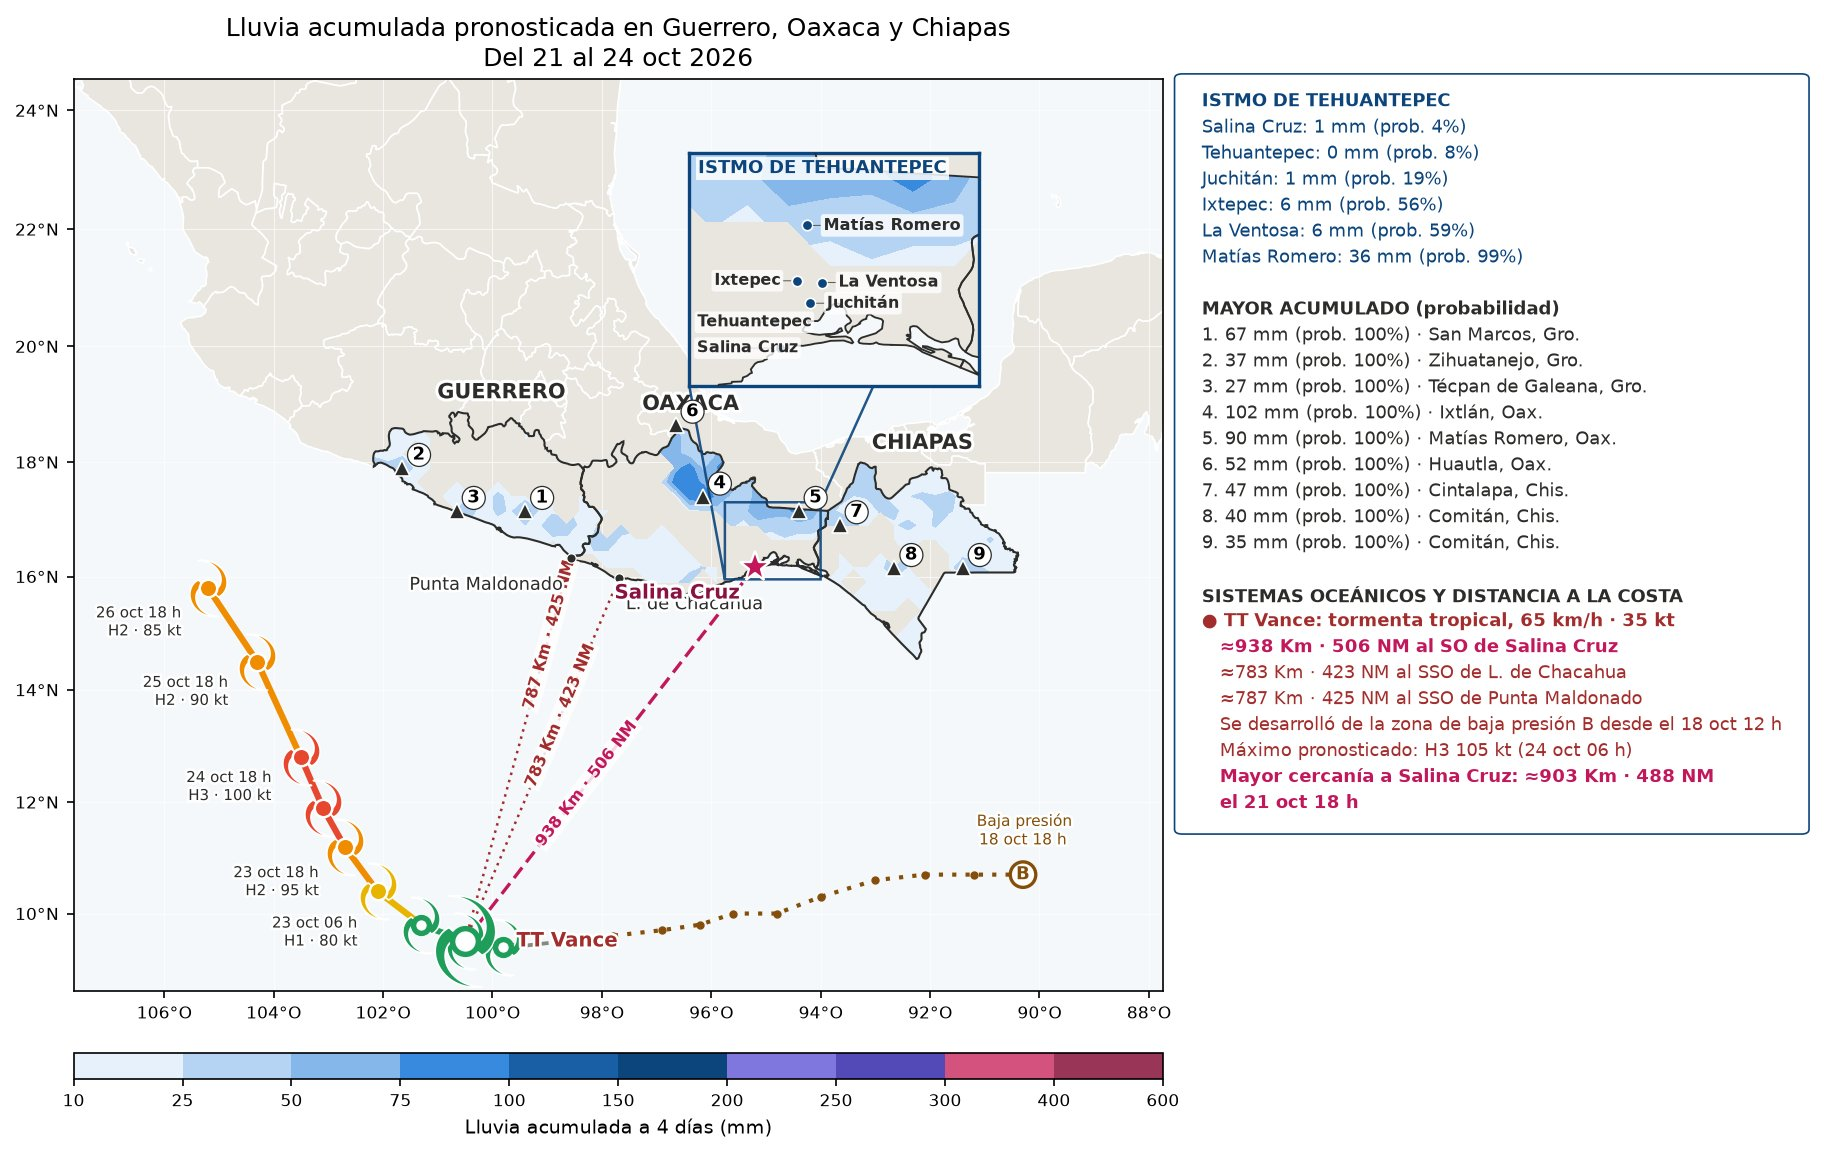
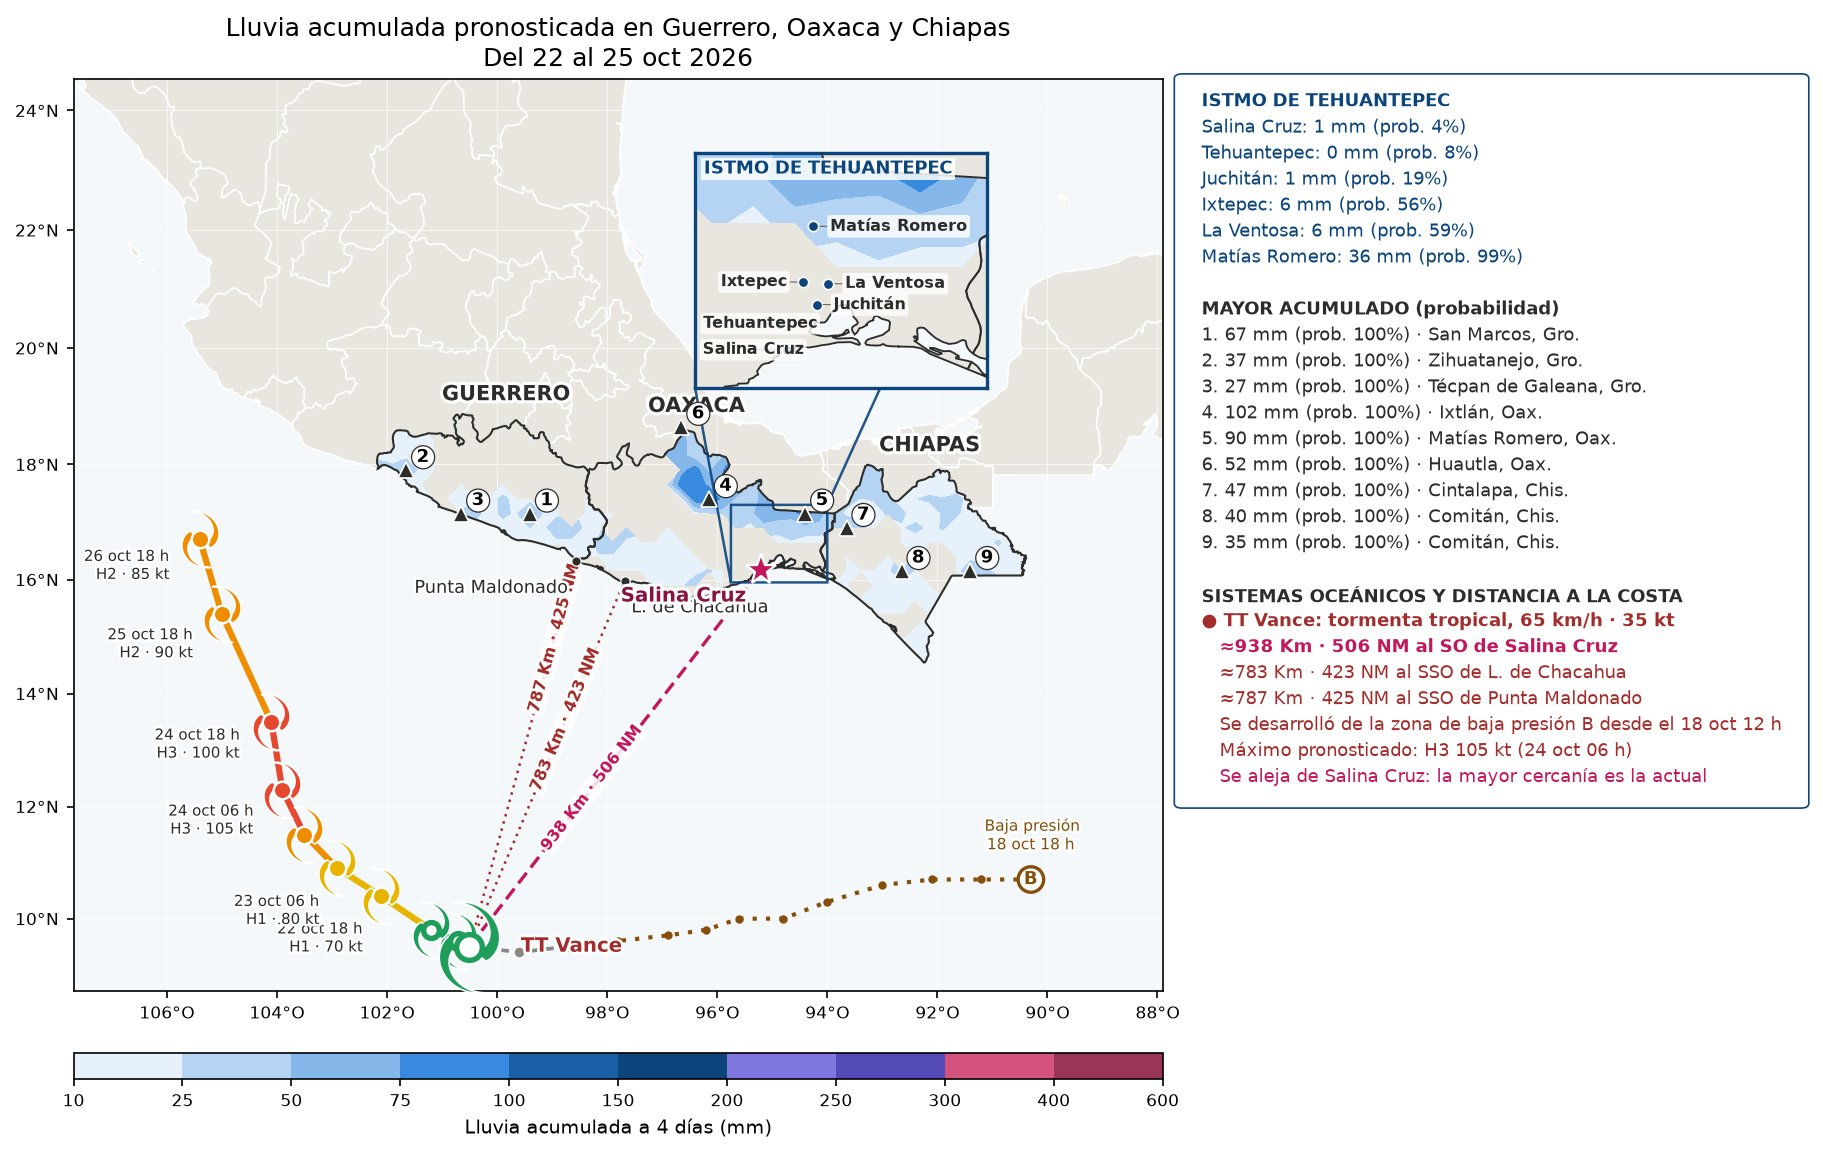
Monitor 22/10 00:07 (mapas nuevos)

diff --git a/index.html b/index.html
@@ -62,7 +62,7 @@ pre{overflow-x:auto;font-size:.75rem;background:var(--bg);padding:10px;border-ra
 <section class="t" id="sec_log"><details><summary>Registro (últimas líneas)</summary><pre id="log"></pre></details></section>
 </main>
 <div id="zoom"><img alt=""></div>
-<script id="datos" type="application/json">{"generado": "2026-10-21T23:37:03.929120", "ultima_revision": "2026-10-21T23:37:03.894229", "decision": "cambios menores en espera", "ultima_imagen": "2026-10-21T21:00:41.013700", "motivo_imagen": "cambios acumulados en 3 h: modelo", "pendientes": ["nhc"], "intervalo_h": 3, "resumen": {"ciclones": {"ep222026": {"nombre": "Vance", "kt": 40, "cat": "TT"}}, "zonas": []}, "historial": [{"fecha": "2026-10-20T17:52:21.020479", "motivo": "manual (--forzar)"}, {"fecha": "2026-10-20T18:27:13.446339", "motivo": "manual (--forzar)"}, {"fecha": "2026-10-20T18:41:26.135377", "motivo": "manual (--forzar)"}, {"fecha": "2026-10-20T18:51:11.782376", "motivo": "manual (--forzar)"}, {"fecha": "2026-10-20T22:00:47.413328", "motivo": "cambios acumulados en 3 h: modelo"}, {"fecha": "2026-10-21T01:07:16.707616", "motivo": "cambios acumulados en 3 h: zonas"}, {"fecha": "2026-10-21T04:20:30.390932", "motivo": "cambios acumulados en 3 h: modelo"}, {"fecha": "2026-10-21T07:27:16.278888", "motivo": "cambios acumulados en 3 h: zonas"}, {"fecha": "2026-10-21T08:50:23.611108", "motivo": "CAMBIO SIGNIFICATIVO: Twenty-Two-E entró a la jurisdicción (DT)"}, {"fecha": "2026-10-21T10:39:57.224515", "motivo": "manual (--forzar)"}, {"fecha": "2026-10-21T11:09:36.695799", "motivo": "manual (--forzar)"}, {"fecha": "2026-10-21T12:47:14.163333", "motivo": "CAMBIO SIGNIFICATIVO: una zona de baja presión dejó de afectar la jurisdicción"}, {"fecha": "2026-10-21T14:37:14.543348", "motivo": "CAMBIO SIGNIFICATIVO: Vance cambió de categoría DT → TT"}, {"fecha": "2026-10-21T17:50:14.361831", "motivo": "cambios acumulados en 3 h: modelo"}, {"fecha": "2026-10-21T21:00:41.013700", "motivo": "cambios acumulados en 3 h: modelo"}], "imagenes": {"lluvia": {"src": "lluvia.jpg?v=202610212100", "fecha": "2026-10-21T21:00:34.610518"}, "viento": {"src": "viento.jpg?v=202610212100", "fecha": "2026-10-21T21:00:39.281513"}}, "log": [], "umbral_av": 50, "umbral_mal": 110}</script>
+<script id="datos" type="application/json">{"generado": "2026-10-22T00:07:16.039434", "ultima_revision": "2026-10-22T00:07:16.005030", "decision": "imágenes generadas", "ultima_imagen": "2026-10-22T00:07:16.005030", "motivo_imagen": "cambios acumulados en 3 h: nhc", "pendientes": [], "intervalo_h": 3, "resumen": {"ciclones": {"ep222026": {"nombre": "Vance", "kt": 40, "cat": "TT"}}, "zonas": []}, "historial": [{"fecha": "2026-10-20T18:27:13.446339", "motivo": "manual (--forzar)"}, {"fecha": "2026-10-20T18:41:26.135377", "motivo": "manual (--forzar)"}, {"fecha": "2026-10-20T18:51:11.782376", "motivo": "manual (--forzar)"}, {"fecha": "2026-10-20T22:00:47.413328", "motivo": "cambios acumulados en 3 h: modelo"}, {"fecha": "2026-10-21T01:07:16.707616", "motivo": "cambios acumulados en 3 h: zonas"}, {"fecha": "2026-10-21T04:20:30.390932", "motivo": "cambios acumulados en 3 h: modelo"}, {"fecha": "2026-10-21T07:27:16.278888", "motivo": "cambios acumulados en 3 h: zonas"}, {"fecha": "2026-10-21T08:50:23.611108", "motivo": "CAMBIO SIGNIFICATIVO: Twenty-Two-E entró a la jurisdicción (DT)"}, {"fecha": "2026-10-21T10:39:57.224515", "motivo": "manual (--forzar)"}, {"fecha": "2026-10-21T11:09:36.695799", "motivo": "manual (--forzar)"}, {"fecha": "2026-10-21T12:47:14.163333", "motivo": "CAMBIO SIGNIFICATIVO: una zona de baja presión dejó de afectar la jurisdicción"}, {"fecha": "2026-10-21T14:37:14.543348", "motivo": "CAMBIO SIGNIFICATIVO: Vance cambió de categoría DT → TT"}, {"fecha": "2026-10-21T17:50:14.361831", "motivo": "cambios acumulados en 3 h: modelo"}, {"fecha": "2026-10-21T21:00:41.013700", "motivo": "cambios acumulados en 3 h: modelo"}, {"fecha": "2026-10-22T00:07:16.005030", "motivo": "cambios acumulados en 3 h: nhc"}], "imagenes": {"lluvia": {"src": "lluvia.jpg?v=202610220007", "fecha": "2026-10-22T00:07:09.519594"}, "viento": {"src": "viento.jpg?v=202610220007", "fecha": "2026-10-22T00:07:14.226390"}}, "log": [], "umbral_av": 50, "umbral_mal": 110}</script>
 <script>
 const D = JSON.parse(document.getElementById("datos").textContent);
 const $ = id => document.getElementById(id);
